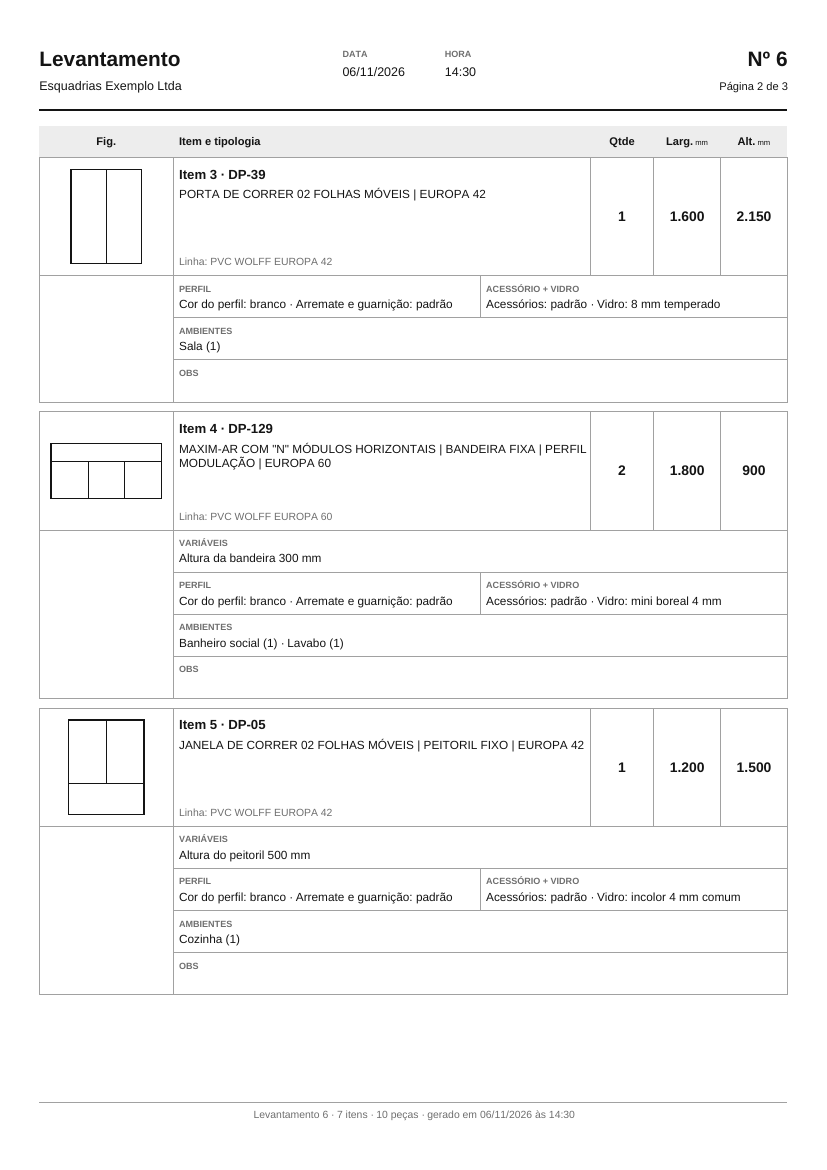
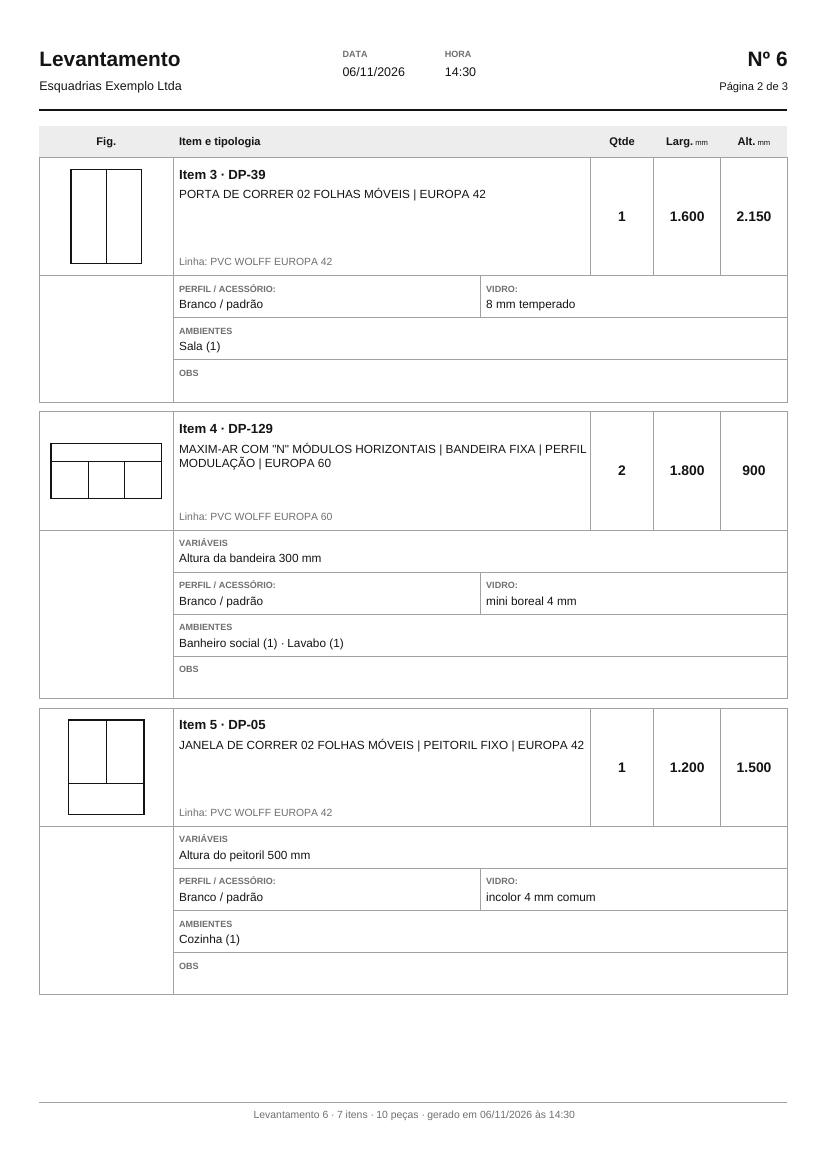
fix: a linha do item com os rótulos do mockup — "PERFIL / ACESSÓRIO:" e "VIDRO:"
Resposta do dono do produto às perguntas de 06/11: a célula 1 é "PERFIL /
ACESSÓRIO:", com "<cor do perfil> / <cor do acessório>" e "padrão" no lugar da
cor do acessório não dita ("Branco / padrão"); a célula 2 é "VIDRO:", com o vidro
como o vendedor disse. O arremate e a guarnição não entram na linha do item: são
comuns à obra e saem no fecho. Exemplo e PNGs regravados.

Claude-Session: https://claude.ai/code/session_011FCFdoY7yDCMrbDtJssjJ1

diff --git a/src/utils/__tests__/fixtures/folha-de-exemplo.ts b/src/utils/__tests__/fixtures/folha-de-exemplo.ts
@@ -11,45 +11,44 @@ const BANDEIRA = 'ALTURA DA BANDEIRA'
 const PEITORIL = 'ALTURA DO PEITORIL'
 const N = 'QUANTIDADE DE MÓDULOS HORIZONTAIS'
 const V = 'QUANTIDADE DE MÓDULOS VERTICAIS'
-const PERFIL = 'Cor do perfil: branco · Arremate e guarnição: padrão'
-const vidro = (v: string) => `Acessórios: padrão · Vidro: ${v}`
+const PERFIL = 'Branco / padrão'
 
 export const ITENS_DE_EXEMPLO: ItemDaFolha[] = [
     {
         ordem: 1, tipologia: 'DP-02', descricao: 'JANELA DE CORRER 02 FOLHAS MÓVEIS | EUROPA 42', linha: 'PVC WOLFF EUROPA 42',
-        quantidade: 3, largura_mm: 1500, altura_mm: 1200, variaveis: [], perfil: PERFIL, acessorioEVidro: vidro('incolor 4 mm comum'),
+        quantidade: 3, largura_mm: 1500, altura_mm: 1200, variaveis: [], perfilEAcessorio: PERFIL, vidro: 'incolor 4 mm comum',
         ambientes: [{ ambiente: 'Quarto 1', quantidade: 1 }, { ambiente: 'Quarto 2', quantidade: 1 }, { ambiente: 'Escritório', quantidade: 1 }], obs: null,
     },
     {
         ordem: 2, tipologia: 'DP-04', descricao: 'JANELA DE CORRER 02 FOLHAS MÓVEIS | BANDEIRA FIXA | EUROPA 42', linha: 'PVC WOLFF EUROPA 42',
         quantidade: 1, largura_mm: 2000, altura_mm: 1600, variaveis: [{ variavel: 'AF', descricao: BANDEIRA, valor: 400, semPadrao: true }],
-        perfil: PERFIL, acessorioEVidro: vidro('incolor 4 mm comum'), ambientes: [{ ambiente: 'Sala', quantidade: 1 }], obs: 'Conferir prumo da parede antes da medição final.',
+        perfilEAcessorio: PERFIL, vidro: 'incolor 4 mm comum', ambientes: [{ ambiente: 'Sala', quantidade: 1 }], obs: 'Conferir prumo da parede antes da medição final.',
     },
     {
         ordem: 3, tipologia: 'DP-39', descricao: 'PORTA DE CORRER 02 FOLHAS MÓVEIS | EUROPA 42', linha: 'PVC WOLFF EUROPA 42',
-        quantidade: 1, largura_mm: 1600, altura_mm: 2150, variaveis: [], perfil: PERFIL, acessorioEVidro: vidro('8 mm temperado'),
+        quantidade: 1, largura_mm: 1600, altura_mm: 2150, variaveis: [], perfilEAcessorio: PERFIL, vidro: '8 mm temperado',
         ambientes: [{ ambiente: 'Sala', quantidade: 1 }], obs: null,
     },
     {
         ordem: 4, tipologia: 'DP-129', descricao: 'MAXIM-AR COM "N" MÓDULOS HORIZONTAIS | BANDEIRA FIXA | PERFIL MODULAÇÃO | EUROPA 60', linha: 'PVC WOLFF EUROPA 60',
         quantidade: 2, largura_mm: 1800, altura_mm: 900,
         variaveis: [{ variavel: 'AF', descricao: BANDEIRA, valor: 300, semPadrao: true }, { variavel: 'N', descricao: N, valor: 3, semPadrao: false }],
-        perfil: PERFIL, acessorioEVidro: vidro('mini boreal 4 mm'), ambientes: [{ ambiente: 'Banheiro social', quantidade: 1 }, { ambiente: 'Lavabo', quantidade: 1 }], obs: null,
+        perfilEAcessorio: PERFIL, vidro: 'mini boreal 4 mm', ambientes: [{ ambiente: 'Banheiro social', quantidade: 1 }, { ambiente: 'Lavabo', quantidade: 1 }], obs: null,
     },
     {
         ordem: 5, tipologia: 'DP-05', descricao: 'JANELA DE CORRER 02 FOLHAS MÓVEIS | PEITORIL FIXO | EUROPA 42', linha: 'PVC WOLFF EUROPA 42',
         quantidade: 1, largura_mm: 1200, altura_mm: 1500, variaveis: [{ variavel: 'AF', descricao: PEITORIL, valor: 500, semPadrao: true }],
-        perfil: PERFIL, acessorioEVidro: vidro('incolor 4 mm comum'), ambientes: [{ ambiente: 'Cozinha', quantidade: 1 }], obs: null,
+        perfilEAcessorio: PERFIL, vidro: 'incolor 4 mm comum', ambientes: [{ ambiente: 'Cozinha', quantidade: 1 }], obs: null,
     },
     {
         ordem: 6, tipologia: 'DP-141', descricao: 'MAXIM-AR COM "N" MÓDULOS HORIZONTAIS E "V" MÓDULOS VERTICAIS | ALT IGUAIS | PERFIL COLUNA |EUROPA 60', linha: 'PVC WOLFF EUROPA 60',
         quantidade: 1, largura_mm: 1400, altura_mm: 1400,
         variaveis: [{ variavel: 'N', descricao: N, valor: 2, semPadrao: false }, { variavel: 'V', descricao: V, valor: 2, semPadrao: false }],
-        perfil: PERFIL, acessorioEVidro: vidro('incolor 4 mm comum'), ambientes: null, obs: null,
+        perfilEAcessorio: PERFIL, vidro: 'incolor 4 mm comum', ambientes: null, obs: null,
     },
     {
         ordem: 7, tipologia: 'DP-165', descricao: 'PORTA OSCILO BATENTE 01 FOLHA | EUROPA 60', linha: 'PVC WOLFF EUROPA 60',
-        quantidade: 1, largura_mm: 900, altura_mm: 2100, variaveis: [], perfil: PERFIL, acessorioEVidro: vidro('8 mm temperado'),
+        quantidade: 1, largura_mm: 900, altura_mm: 2100, variaveis: [], perfilEAcessorio: PERFIL, vidro: '8 mm temperado',
         ambientes: [{ ambiente: 'Área de serviço', quantidade: 1 }], obs: 'Abertura para dentro, dobradiças à direita de quem entra.',
     },
 ]
@@ -68,7 +67,7 @@ export const FOLHA_DE_EXEMPLO: DadosDaFolha = {
     },
     itens: ITENS_DE_EXEMPLO,
     preDefinicoes: [
-        { rotulo: 'Cor do perfil', valor: 'branco' },
+        { rotulo: 'Cor do perfil', valor: 'Branco' },
         { rotulo: 'Arremate e guarnição', valor: 'padrão' },
         { rotulo: 'Vedação', valor: 'padrão' },
     ],

diff --git a/src/lib/atendimentos-ia/folha-do-levantamento.ts b/src/lib/atendimentos-ia/folha-do-levantamento.ts
@@ -12,8 +12,11 @@
  *     largura e altura centradas na célula nos dois eixos.
  *   - FAIXA DO ITEM: o desenho da tipologia na PROPORÇÃO REAL de largura × altura, o código, o nome da tipologia e a linha. Toda célula de item tem a
  *     MESMA altura (`ALTURA_DA_FAIXA`), qualquer que seja a tipologia.
- *   - LINHAS POR ITEM, nesta ordem: VARIÁVEIS (só com variável sem padrão respondida: "descrição + valor", separados por " · "); PERFIL /
- *     ACESSÓRIO + VIDRO (uma linha, duas células: o respiro sob a figura fica fora da divisão, e o que resta é 50% para cada); AMBIENTES; OBS.
+ *   - LINHAS POR ITEM, nesta ordem: VARIÁVEIS (só com variável sem padrão respondida: "descrição + valor", separados por " · "); a linha de
+ *     duas células (o respiro sob a figura fica fora da divisão, e o que resta é 50% para cada) — "PERFIL / ACESSÓRIO:" com "<cor do perfil> /
+ *     <cor do acessório>" ("padrão" no lugar da cor do acessório não dita: "Branco / padrão") e "VIDRO:" com o vidro como o vendedor disse
+ *     (rótulos do mockup aprovado campo a campo, dono do produto, 06/11/2026; o arremate e a guarnição NÃO entram aqui: são comuns à obra e saem
+ *     no fecho); AMBIENTES; OBS.
  *   - NUNCA ENTRAM: perfil como material, acessório, barra, peso, corte, nem valor em reais de espécie alguma. A folha não recebe nenhum desses
  *     dados (o contrato `DadosDaFolha` não tem campo para eles), e a conferência recusa texto com símbolo de dinheiro (`SIMBOLO_DE_DINHEIRO`).
  *   - FECHO: pré-definições consideradas (só o que foi informado, corpo reduzido, sem negrito); condições comerciais — vendedor + comissão % + modo
@@ -59,10 +62,10 @@ export type ItemDaFolha = {
     largura_mm: number
     altura_mm: number
     variaveis: readonly VariavelDita[]
-    /** O texto da célula PERFIL (a cor do perfil e o arremate, por extenso). Nulo = a célula sai em branco. */
-    perfil: string | null
-    /** O texto da célula ACESSÓRIO + VIDRO. Nulo = a célula sai em branco. */
-    acessorioEVidro: string | null
+    /** A célula "PERFIL / ACESSÓRIO:": "<cor do perfil> / <cor do acessório>", com "padrão" no lugar da cor do acessório não dita. Nulo = em branco. */
+    perfilEAcessorio: string | null
+    /** A célula "VIDRO:": o vidro como o vendedor disse. Nulo = em branco. */
+    vidro: string | null
     /** Nulo = não informados: a linha AMBIENTES sai em branco (nunca um ambiente padrão). */
     ambientes: readonly AmbienteDaFolha[] | null
     obs: string | null
@@ -206,8 +209,8 @@ function textosDaFolha(d: DadosDaFolha): Array<[string, string | null]> {
     ]
     for (const i of d.itens) {
         const n = nomeDoItem(i)
-        textos.push([`${n}, a tipologia`, i.tipologia], [`${n}, a descrição`, i.descricao], [`${n}, a linha`, i.linha], [`${n}, o perfil`, i.perfil],
-            [`${n}, o acessório e vidro`, i.acessorioEVidro], [`${n}, a obs`, i.obs], ...(i.ambientes ?? []).map((a): [string, string] => [`${n}, o ambiente`, a.ambiente]),
+        textos.push([`${n}, a tipologia`, i.tipologia], [`${n}, a descrição`, i.descricao], [`${n}, a linha`, i.linha], [`${n}, o perfil e acessório`, i.perfilEAcessorio],
+            [`${n}, o vidro`, i.vidro], [`${n}, a obs`, i.obs], ...(i.ambientes ?? []).map((a): [string, string] => [`${n}, o ambiente`, a.ambiente]),
             ...i.variaveis.map((v): [string, string] => [`${n}, a variável`, v.descricao]))
     }
     return textos
@@ -374,12 +377,16 @@ function alturaDaCelula(doc: Doc, texto: string, largura: number, corpo = CORPO)
 
 const LARGURA_DAS_LINHAS = CONTEUDO - COLUNAS.fig
 
+/** Os rótulos da linha de duas células, exatamente os do mockup aprovado (dono do produto, 06/11/2026). */
+export const ROTULO_DO_PERFIL = 'PERFIL / ACESSÓRIO:'
+export const ROTULO_DO_VIDRO = 'VIDRO:'
+
 /** As linhas de um item, na ordem da especificação. A VARIÁVEIS só existe com variável sem padrão respondida. */
 function linhasDoItem(i: ItemDaFolha): Array<{ tipo: 'uma'; rotulo: string; texto: string } | { tipo: 'duas'; esquerda: [string, string]; direita: [string, string] }> {
     const variaveis = linhaDasVariaveis(i)
     return [
         ...(variaveis !== null ? [{ tipo: 'uma' as const, rotulo: 'VARIÁVEIS', texto: variaveis }] : []),
-        { tipo: 'duas' as const, esquerda: ['PERFIL', i.perfil ?? ''], direita: ['ACESSÓRIO + VIDRO', i.acessorioEVidro ?? ''] },
+        { tipo: 'duas' as const, esquerda: [ROTULO_DO_PERFIL, i.perfilEAcessorio ?? ''], direita: [ROTULO_DO_VIDRO, i.vidro ?? ''] },
         { tipo: 'uma' as const, rotulo: 'AMBIENTES', texto: linhaDosAmbientes(i) },
         { tipo: 'uma' as const, rotulo: 'OBS', texto: i.obs ?? '' },
     ]

diff --git a/src/utils/__tests__/folha-do-levantamento.test.ts b/src/utils/__tests__/folha-do-levantamento.test.ts
@@ -25,7 +25,7 @@ const dita = (variavel: string, descricao: string, valor: number, semPadrao = tr
 const descricaoDe = (t: string) => (DESCRICOES as Array<[string, string]>).find(([c]) => c === t)![1]
 const item = (o: Partial<ItemDaFolha> = {}): ItemDaFolha => ({
     ordem: 1, tipologia: 'DP-02', descricao: descricaoDe('DP-02'), linha: 'PVC WOLFF EUROPA 42', quantidade: 1, largura_mm: 1500, altura_mm: 1200,
-    variaveis: [], perfil: 'Cor do perfil: branco', acessorioEVidro: 'Vidro: 4 mm', ambientes: null, obs: null, ...o,
+    variaveis: [], perfilEAcessorio: 'Branco / padrão', vidro: '4 mm', ambientes: null, obs: null, ...o,
 })
 const dados = (o: Partial<DadosDaFolha> = {}): DadosDaFolha => ({ ...FOLHA_DE_EXEMPLO, ...o })
 /** O texto do PDF (jsPDF sem compressão escreve o texto em Latin-1 nos fluxos de conteúdo). */
@@ -300,9 +300,11 @@ describe('(IV) o que a folha escreve', () => {
         expect(t).toContain('(Modo: proporcional)')
         expect(t).toContain('(Arq. Paula Exemplo)')
         expect(t).toContain('(27/11/26)')
-        // as linhas do item 2: VARIÁVEIS → PERFIL / ACESSÓRIO + VIDRO → AMBIENTES → OBS
+        // as linhas do item 2: VARIÁVEIS → PERFIL / ACESSÓRIO: | VIDRO: → AMBIENTES → OBS — os rótulos exatos do mockup aprovado
         const i2 = t.indexOf('(Item 2 · DP-04)')
-        const ordem = ['(VARIÁVEIS)', '(PERFIL)', '(ACESSÓRIO + VIDRO)', '(AMBIENTES)', '(OBS)'].map((r2) => t.indexOf(r2, i2))
+        const ordem = ['(VARIÁVEIS)', '(PERFIL / ACESSÓRIO:)', '(VIDRO:)', '(AMBIENTES)', '(OBS)'].map((r2) => t.indexOf(r2, i2))
+        expect(t).toContain('(Branco / padrão)')
+        expect(t).not.toContain('Arremate e guarnição: padrão)')
         expect(ordem.every((p) => p > i2)).toBe(true)
         expect([...ordem].sort((a, b) => a - b)).toEqual(ordem)
         // o item 1 (DP-02) não tem variável sem padrão: entre ele e o item 2 não há VARIÁVEIS

diff --git a/scripts/mutacoes/folha-do-levantamento.py b/scripts/mutacoes/folha-do-levantamento.py
@@ -36,7 +36,7 @@ M = [
  ('L4 o fuso UTC', "const FUSO = 'America/Sao_Paulo'", "const FUSO = 'UTC'"),
  ('L5 a página sem o total', 'doc.text(`Página ${pagina} de ${total}`', 'doc.text(`Página ${pagina}`'),
  ('L6 o cliente em toda folha', '        if (p.cliente) y = blocoDoCliente(doc, dados, y)\n', '        y = blocoDoCliente(doc, dados, y)\n'),
- ('L7 VARIÁVEIS depois do PERFIL', "        ...(variaveis !== null ? [{ tipo: 'uma' as const, rotulo: 'VARIÁVEIS', texto: variaveis }] : []),\n        { tipo: 'duas' as const, esquerda: ['PERFIL', i.perfil ?? ''], direita: ['ACESSÓRIO + VIDRO', i.acessorioEVidro ?? ''] },\n", "        { tipo: 'duas' as const, esquerda: ['PERFIL', i.perfil ?? ''], direita: ['ACESSÓRIO + VIDRO', i.acessorioEVidro ?? ''] },\n        ...(variaveis !== null ? [{ tipo: 'uma' as const, rotulo: 'VARIÁVEIS', texto: variaveis }] : []),\n"),
+ ('L7 VARIÁVEIS depois do PERFIL', "        ...(variaveis !== null ? [{ tipo: 'uma' as const, rotulo: 'VARIÁVEIS', texto: variaveis }] : []),\n        { tipo: 'duas' as const, esquerda: [ROTULO_DO_PERFIL, i.perfilEAcessorio ?? ''], direita: [ROTULO_DO_VIDRO, i.vidro ?? ''] },\n", "        { tipo: 'duas' as const, esquerda: [ROTULO_DO_PERFIL, i.perfilEAcessorio ?? ''], direita: [ROTULO_DO_VIDRO, i.vidro ?? ''] },\n        ...(variaveis !== null ? [{ tipo: 'uma' as const, rotulo: 'VARIÁVEIS', texto: variaveis }] : []),\n"),
  ('L8 "mm" ao lado do valor', '[milhar(i.largura_mm), COLUNAS.larg]', '[`${milhar(i.largura_mm)} mm`, COLUNAS.larg]'),
  ('L9 os itens fora da ordem', '    const itens = [...d.itens].sort((a, b) => a.ordem - b.ordem)\n', '    const itens = [...d.itens]\n'),
  ('L10 o ambiente sem a quantidade', "(i.ambientes ?? []).map((a) => `${a.ambiente} (${a.quantidade})`)", "(i.ambientes ?? []).map((a) => a.ambiente)"),
